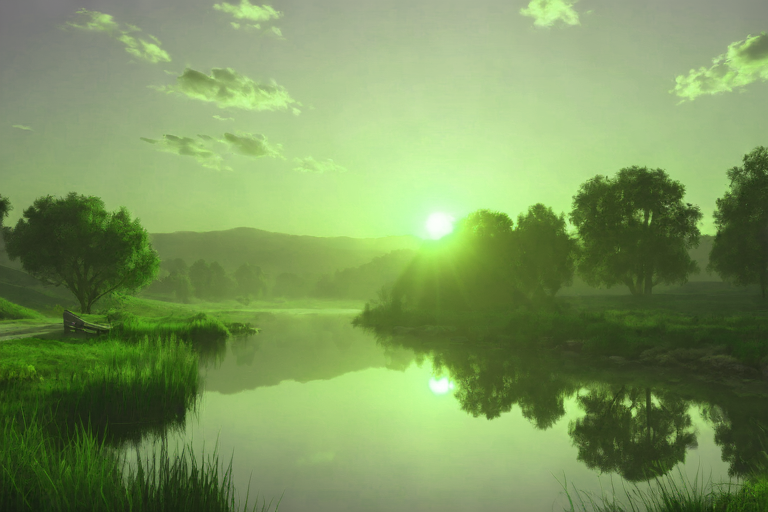
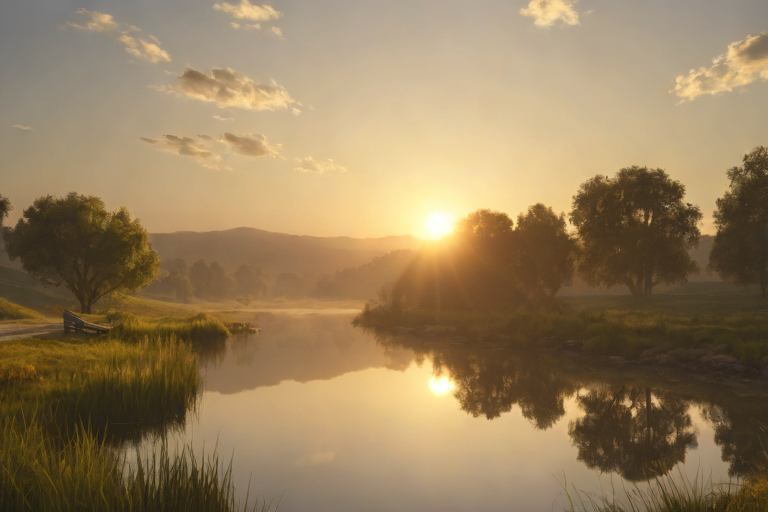
Updated theme

diff --git a/themes/Composr_CMS/css_custom/_colours.css b/themes/Composr_CMS/css_custom/_colours.css
@@ -15,21 +15,21 @@ See global.css for actual CSS rules.
 */
 
 /* Fundamental base colours */
-{$THEMEWIZARD_COLOR,#4c9507,seed,100% 4c9507}
+{$THEMEWIZARD_COLOR,#ddac56,seed,100% ddac56}
 {$THEMEWIZARD_COLOR,#6c757d,seed_secondary,100% 6c757d}
 {$THEMEWIZARD_COLOR,#FFFFFF,WB,100% FFFFFF}
 {$THEMEWIZARD_COLOR,#000000,BW,100% 000000}
 /*Theme seed is: e5922d*/
 
 /* WCAG compliance colours */
-{$THEMEWIZARD_COLOR,#9fff41,seed_contrast_low,100% (seed contrast 3)} /* AA compliance */
-{$THEMEWIZARD_COLOR,#112102,seed_contrast_medium,100% (seed contrast 4.5)} /* AA + AAA (for large text) compliance */
-{$THEMEWIZARD_COLOR,#ffffff,seed_contrast_high,100% (seed contrast 7)} /* AA + AAA compliance */
+{$THEMEWIZARD_COLOR,#775c2e,seed_contrast_low,100% (seed contrast 3)} /* AA compliance */
+{$THEMEWIZARD_COLOR,#564321,seed_contrast_medium,100% (seed contrast 4.5)} /* AA + AAA (for large text) compliance */
+{$THEMEWIZARD_COLOR,#322713,seed_contrast_high,100% (seed contrast 7)} /* AA + AAA compliance */
 {$THEMEWIZARD_COLOR,#ffffff,seed_contrast_BW,100% (seed contrast 0)} /* AA + AAA compliance */
 
 /* The fundamental website */
-{$THEMEWIZARD_COLOR,#ebf3e3,fixed_width_background,11% (seed sat_to 100) + 89% WB}
-{$THEMEWIZARD_COLOR,#91be67,fixed_width_border,61% seed + 39% WB}
+{$THEMEWIZARD_COLOR,#fbf2e3,fixed_width_background,11% (seed sat_to 100) + 89% WB}
+{$THEMEWIZARD_COLOR,#eacc97,fixed_width_border,61% seed + 39% WB}
 {$THEMEWIZARD_COLOR,#ffffff,main_background,100% WB}
 {$THEMEWIZARD_COLOR,#f2f2f2,main_2_background,95% WB + 5% BW}
 
@@ -66,20 +66,20 @@ See global.css for actual CSS rules.
 {$THEMEWIZARD_COLOR,#dff2e3,light_success_background_2,85% WB + 15% success_color}
 {$THEMEWIZARD_COLOR,#cc0000,red_highlight_text,80% FF0000 + 20% 000000}
 {$THEMEWIZARD_COLOR,#007a00,green_highlight_text,100% 007A00}
-{$THEMEWIZARD_COLOR,#eadcd6,required_background,60% (area_4_background hue_to 0) + 40% area_background}
-{$THEMEWIZARD_COLOR,#ebe4db,required_2_background,40% (area_4_background hue_to 0) + 60% area_background}
+{$THEMEWIZARD_COLOR,#f9e7e3,required_background,60% (area_4_background hue_to 0) + 40% area_background}
+{$THEMEWIZARD_COLOR,#faece6,required_2_background,40% (area_4_background hue_to 0) + 60% area_background}
 {$THEMEWIZARD_COLOR,#000000,dark_shadow,100% BW}
 
 /* For standard elements */
 {$THEMEWIZARD_COLOR,#1a1a1a,body_color,90% BW + 10% WB}
-{$THEMEWIZARD_COLOR,#3a7105,heading_text,76% seed + 24% BW}
-{$THEMEWIZARD_COLOR,#336405,a.link,67% seed + 33% BW}
-{$THEMEWIZARD_COLOR,#264b04,a.hover,75% a.link + 25% BW}
-{$THEMEWIZARD_COLOR,#acff5c,a.link_light,67% (seed val_to 100) + 33% FFFFFF}
-{$THEMEWIZARD_COLOR,#c1ff85,a.hover_light,75% a.link_light + 25% FFFFFF}
-{$THEMEWIZARD_COLOR,#c1daa8,th_secondary_text,35% seed + 65% WB}
-{$THEMEWIZARD_COLOR,#abce8c,hr,60% area_background + 40% seed}
-{$THEMEWIZARD_COLOR,#3a7105,divider_line,76% seed + 24% BW}
+{$THEMEWIZARD_COLOR,#a88341,heading_text,76% seed + 24% BW}
+{$THEMEWIZARD_COLOR,#94733a,a.link,67% seed + 33% BW}
+{$THEMEWIZARD_COLOR,#6f562c,a.hover,75% a.link + 25% BW}
+{$THEMEWIZARD_COLOR,#ffd996,a.link_light,67% (seed val_to 100) + 33% FFFFFF}
+{$THEMEWIZARD_COLOR,#ffe3b1,a.hover_light,75% a.link_light + 25% FFFFFF}
+{$THEMEWIZARD_COLOR,#f3e2c4,th_secondary_text,35% seed + 65% WB}
+{$THEMEWIZARD_COLOR,#efd9b0,hr,60% area_background + 40% seed}
+{$THEMEWIZARD_COLOR,#a88341,divider_line,76% seed + 24% BW}
 
 {$THEMEWIZARD_COLOR,#ffffff,text_light,100% ffffff}
 {$THEMEWIZARD_COLOR,#212529,text_dark,100% 212529}
@@ -87,61 +87,61 @@ See global.css for actual CSS rules.
 /* Borders */
 {$THEMEWIZARD_COLOR,#dddddd,standard_border,100% DDDDDD}
 {$THEMEWIZARD_COLOR,#9b9b9b,dark_border,70% standard_border + 30% BW}
-{$THEMEWIZARD_COLOR,#c4dcad,pale_border,33% seed + 67% WB}
-{$THEMEWIZARD_COLOR,#c4dcad,point_of_interest_border,33% seed + 67% WB}
+{$THEMEWIZARD_COLOR,#f4e4c7,pale_border,33% seed + 67% WB}
+{$THEMEWIZARD_COLOR,#f4e4c7,point_of_interest_border,33% seed + 67% WB}
 
 /* Backgrounds (quiet a variety, as we need to be able to stack them, to have both hover and active effects, to have zebra striping, and various other levels of perceived focus) */
-{$THEMEWIZARD_COLOR,#ebf3e4,area_background,11% seed + 89% WB}
-{$THEMEWIZARD_COLOR,#e4efda,area_2_background,15% seed + 85% WB}
-{$THEMEWIZARD_COLOR,#eff5e9,area_3_background,60% area_2_background + 40% WB}
-{$THEMEWIZARD_COLOR,#dbeacd,area_4_background,20% seed + 80% WB}
-{$THEMEWIZARD_COLOR,#f9fbf7,area_5_background,3% seed + 97% WB}
-{$THEMEWIZARD_COLOR,#9ede60,area_light_background,65% (seed val_to 80) + 35% WB}
-{$THEMEWIZARD_COLOR,#eff5e9,area_faded_background,80% area_background + 20% WB}
-{$THEMEWIZARD_COLOR,#f9fbf7,area_zebra_background,100% area_5_background}
+{$THEMEWIZARD_COLOR,#fbf6ec,area_background,11% seed + 89% WB}
+{$THEMEWIZARD_COLOR,#faf3e6,area_2_background,15% seed + 85% WB}
+{$THEMEWIZARD_COLOR,#fcf8f0,area_3_background,60% area_2_background + 40% WB}
+{$THEMEWIZARD_COLOR,#f8eedd,area_4_background,20% seed + 80% WB}
+{$THEMEWIZARD_COLOR,#fefcfa,area_5_background,3% seed + 97% WB}
+{$THEMEWIZARD_COLOR,#dec08c,area_light_background,65% (seed val_to 80) + 35% WB}
+{$THEMEWIZARD_COLOR,#fcf8f0,area_faded_background,80% area_background + 20% WB}
+{$THEMEWIZARD_COLOR,#fefcfa,area_zebra_background,100% area_5_background}
 {$THEMEWIZARD_COLOR,#ffffff,area_hover_background,100% WB}
-{$THEMEWIZARD_COLOR,#dbeacd,area_hover_2_background,20% seed + 80% WB}
+{$THEMEWIZARD_COLOR,#f8eedd,area_hover_2_background,20% seed + 80% WB}
 {$THEMEWIZARD_COLOR,#ffffff,area_current_background,100% WB}
-{$THEMEWIZARD_COLOR,#dde8d3,point_of_interest_background,97% area_2_background + 2% BW}
+{$THEMEWIZARD_COLOR,#f3ecdf,point_of_interest_background,97% area_2_background + 2% BW}
 {$THEMEWIZARD_COLOR,#444444,panel_bottom_background,100% 444444}
 {$THEMEWIZARD_COLOR,#333333,footer_background,100% 333333}
 {$THEMEWIZARD_COLOR,#333333,tooltip_background,100% 333333}
 {$THEMEWIZARD_COLOR,#f0f2f4,input_disabled_background,67% E9ECEF + 33% WB}
 
 /* Backgrounds, employing color wheel theory */
-{$THEMEWIZARD_COLOR,#e9eacd,area_highlight_left_complement_background,20% (seed hue_add -21) + 80% WB}
-{$THEMEWIZARD_COLOR,#cdeacd,area_highlight_right_complement_background,20% (seed hue_add +21) + 80% WB}
+{$THEMEWIZARD_COLOR,#f8e1dd,area_highlight_left_complement_background,20% (seed hue_add -21) + 80% WB}
+{$THEMEWIZARD_COLOR,#f5f8dd,area_highlight_right_complement_background,20% (seed hue_add +21) + 80% WB}
 
 /* Buttons */
-{$THEMEWIZARD_COLOR,#488e07,button_primary,95% seed + 5% BW}
+{$THEMEWIZARD_COLOR,#d2a352,button_primary,95% seed + 5% BW}
 {$THEMEWIZARD_COLOR,#ffffff,button_primary_text,100% (button_primary contrast 0)}
 
 /* Text */
-{$THEMEWIZARD_COLOR,#0f1e01,slightly_seeded_text,20% seed + 80% BW}
-{$THEMEWIZARD_COLOR,#f9fbf7,slightly_seeded_pale_text,3% seed + 97% WB}
-{$THEMEWIZARD_COLOR,#3e4934,slightly_seeded_gray_text,20% WB + 65% BW + 15% seed}
-{$THEMEWIZARD_COLOR,#316105,area_text,65% seed + 35% BW}
-{$THEMEWIZARD_COLOR,#3a4f25,area_key_text,53% (seed sat_to 53) + 47% BW}
-{$THEMEWIZARD_COLOR,#2e520c,area_link,55% (seed sat_to 86) + 45% BW}
+{$THEMEWIZARD_COLOR,#2c2211,slightly_seeded_text,20% seed + 80% BW}
+{$THEMEWIZARD_COLOR,#fefcfa,slightly_seeded_pale_text,3% seed + 97% WB}
+{$THEMEWIZARD_COLOR,#544d40,slightly_seeded_gray_text,20% WB + 65% BW + 15% seed}
+{$THEMEWIZARD_COLOR,#907038,area_text,65% seed + 35% BW}
+{$THEMEWIZARD_COLOR,#755e37,area_key_text,53% (seed sat_to 53) + 47% BW}
+{$THEMEWIZARD_COLOR,#7a5411,area_link,55% (seed sat_to 86) + 45% BW}
 {$THEMEWIZARD_COLOR,#0d0d0d,slightly_gray_text,95% BW + 5% WB}
 
 /* Special colour for box titles */
 {$THEMEWIZARD_COLOR,#f2f2f2,box_title_background,100% main_2_background}
-{$THEMEWIZARD_COLOR,#488e07,box_title_background_2,95% seed + 5% BW}
+{$THEMEWIZARD_COLOR,#d2a352,box_title_background_2,95% seed + 5% BW}
 {$THEMEWIZARD_COLOR,#1a1a1a,box_title_text,90% BW + 10% WB}
-{$THEMEWIZARD_COLOR,#264b04,box_title_text_hover,100% a.hover}
+{$THEMEWIZARD_COLOR,#6f562c,box_title_text_hover,100% a.hover}
 {$THEMEWIZARD_COLOR,#ffffff,box_title_text_2,100% (box_title_background_2 contrast 0)}
-{$THEMEWIZARD_COLOR,#edf4e7,box_title_link,90% (box_title_background_2 contrast 0) + 10% box_title_background_2}
+{$THEMEWIZARD_COLOR,#fbf6ee,box_title_link,90% (box_title_background_2 contrast 0) + 10% box_title_background_2}
 
 /* Special colour for code/quote boxes */
-{$THEMEWIZARD_COLOR,#4c9507,code_title_background,100% seed}
-{$THEMEWIZARD_COLOR,#3f3f3e,code_text,25% code_background + 85% BW}
-{$THEMEWIZARD_COLOR,#fafcf8,code_background,25% area_background + 75% WB}
-{$THEMEWIZARD_COLOR,#4c9507,code_border,100% seed}
+{$THEMEWIZARD_COLOR,#ddac56,code_title_background,100% seed}
+{$THEMEWIZARD_COLOR,#403f3f,code_text,25% code_background + 85% BW}
+{$THEMEWIZARD_COLOR,#fefdfa,code_background,25% area_background + 75% WB}
+{$THEMEWIZARD_COLOR,#ddac56,code_border,100% seed}
 
 /* Drop down menus should look 'above' the site */
 {$THEMEWIZARD_COLOR,#ffffff,dropdown_menu_item_background,100% WB}
-{$THEMEWIZARD_COLOR,#dbeacd,dropdown_menu_item_background_hover,100% area_4_background}
+{$THEMEWIZARD_COLOR,#f8eedd,dropdown_menu_item_background_hover,100% area_4_background}
 
 /* Global-level messages should stand out compared to other styling */
 {$THEMEWIZARD_COLOR,#f1f1f1,message_highlighted_part,40% standard_border + 60% WB}

diff --git a/themes/Composr_CMS/css_custom/_cns_colours.css b/themes/Composr_CMS/css_custom/_cns_colours.css
@@ -3,9 +3,9 @@
  Copyright (c) Christopher Graham, 2004-2024
 */
 
-{$THEMEWIZARD_COLOR,#72f86d,cns_personal_post_background,50% 00FF00 + 50% area_2_background}
+{$THEMEWIZARD_COLOR,#7dfa73,cns_personal_post_background,50% 00FF00 + 50% area_2_background}
 {$THEMEWIZARD_COLOR,#000000,cns_personal_post_text,100% BW}
-{$THEMEWIZARD_COLOR,#f2786d,emphasis_background,50% FF0000 + 50% area_2_background}
-{$THEMEWIZARD_COLOR,#180c0b,emphasis_text,10% emphasis_background + 90% BW}
-{$THEMEWIZARD_COLOR,#f2786d,cns_polls_background,50% FF0000 + 50% area_2_background}
-{$THEMEWIZARD_COLOR,#180c0b,cns_polls_text,10% cns_polls_background + 90% BW}
+{$THEMEWIZARD_COLOR,#fd7a73,emphasis_background,50% FF0000 + 50% area_2_background}
+{$THEMEWIZARD_COLOR,#190c0c,emphasis_text,10% emphasis_background + 90% BW}
+{$THEMEWIZARD_COLOR,#fd7a73,cns_polls_background,50% FF0000 + 50% area_2_background}
+{$THEMEWIZARD_COLOR,#190c0c,cns_polls_text,10% cns_polls_background + 90% BW}

diff --git a/themes/Composr_CMS/css_custom/_install_colours.css b/themes/Composr_CMS/css_custom/_install_colours.css
@@ -5,6 +5,6 @@
 
 {$THEMEWIZARD_COLOR,#ffffff,installer_background_text,100% WB}
 {$THEMEWIZARD_COLOR,#f2f2f2,installer_background_text_hover,5% BW + 95% WB}
-{$THEMEWIZARD_COLOR,#59951e,installer_background_a,seed sat_to 80}
-{$THEMEWIZARD_COLOR,#6f954a,installer_background_b,seed sat_to 50}
+{$THEMEWIZARD_COLOR,#dd9d2c,installer_background_a,seed sat_to 80}
+{$THEMEWIZARD_COLOR,#ddb56e,installer_background_b,seed sat_to 50}
 {$THEMEWIZARD_COLOR,#ffffff,external_tool_background,100% FFFFFF}
